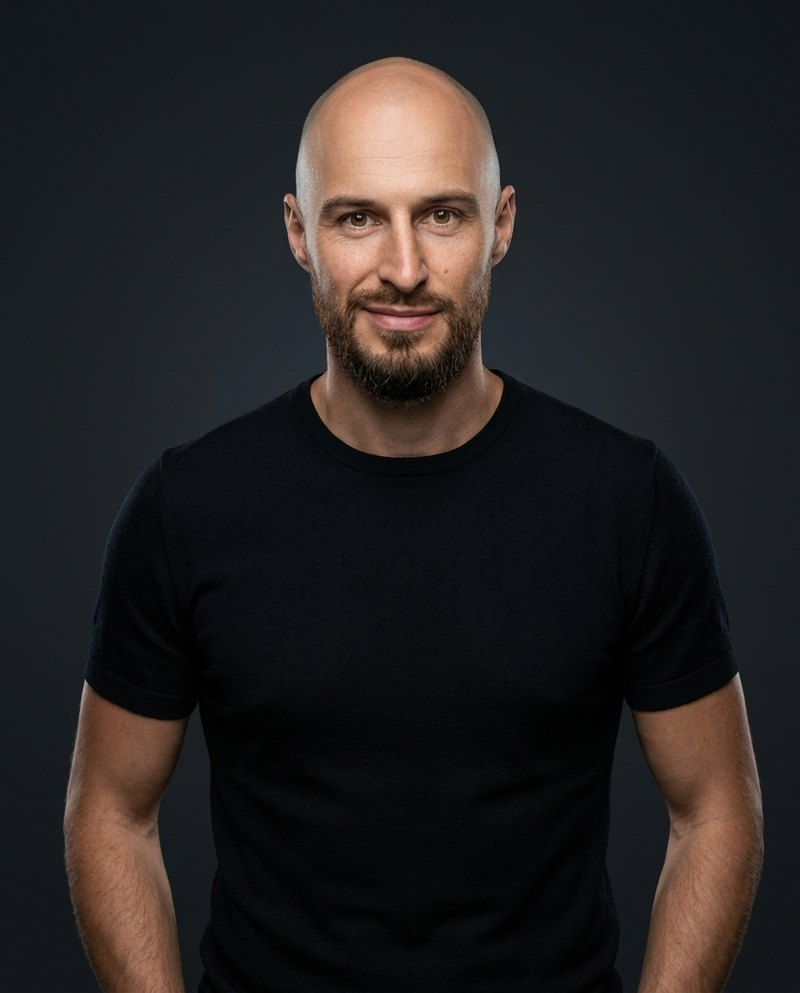
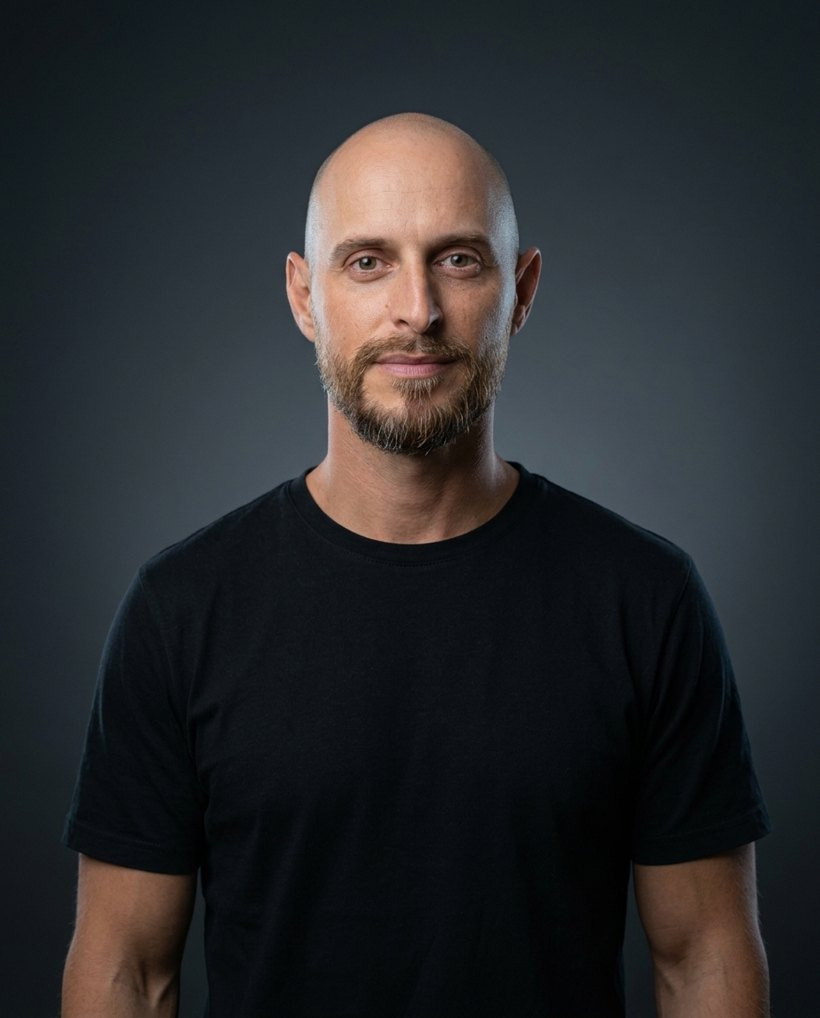
Портрет из 4К-съёмки, появление карточек по очереди

diff --git a/privacy/index.html b/privacy/index.html
@@ -10,7 +10,7 @@
 <link rel="preconnect" href="https://fonts.googleapis.com">
 <link rel="preconnect" href="https://fonts.gstatic.com" crossorigin>
 <link rel="stylesheet" href="https://fonts.googleapis.com/css2?family=Montserrat:wght@200;300;400;500;600&family=Manrope:wght@400;500;600&display=swap">
-<link rel="stylesheet" href="/assets/style.css?v=8">
+<link rel="stylesheet" href="/assets/style.css?v=9">
 <link rel="icon" href="/assets/favicon.svg" type="image/svg+xml">
 </head>
 <body class="light">
@@ -111,6 +111,25 @@ document.querySelector('.burger').addEventListener('click',function(){
   },{rootMargin:'0px 0px -6% 0px',threshold:.04});
   below.forEach(function(el){el.classList.add('rise');io.observe(el);});
   setTimeout(function(){below.forEach(function(el){el.classList.add('seen')});},2500);
+})();
+
+(function(){
+  if(!('IntersectionObserver' in window)||window.matchMedia('(prefers-reduced-motion:reduce)').matches)return;
+  var items=[].slice.call(document.querySelectorAll('.lot, .cards .card, .step, .numbers .cell'));
+  var fold=window.innerHeight*0.95;
+  var io=new IntersectionObserver(function(es){
+    es.forEach(function(e){
+      if(!e.isIntersecting)return;
+      var group=[].slice.call(e.target.parentNode.children).indexOf(e.target);
+      e.target.style.transitionDelay=Math.min(group,5)*70+'ms';
+      e.target.classList.add('seen'); io.unobserve(e.target);
+    });
+  },{rootMargin:'0px 0px -5% 0px',threshold:.05});
+  items.forEach(function(el){
+    if(el.getBoundingClientRect().top<fold){el.classList.add('reveal-item','seen');return;}
+    el.classList.add('reveal-item'); io.observe(el);
+  });
+  setTimeout(function(){items.forEach(function(el){el.classList.add('seen')});},3000);
 })();
 </script>
 </body>

diff --git a/nalogi/index.html b/nalogi/index.html
@@ -9,7 +9,7 @@
 <link rel="preconnect" href="https://fonts.googleapis.com">
 <link rel="preconnect" href="https://fonts.gstatic.com" crossorigin>
 <link rel="stylesheet" href="https://fonts.googleapis.com/css2?family=Montserrat:wght@200;300;400;500;600&family=Manrope:wght@400;500;600&display=swap">
-<link rel="stylesheet" href="/assets/style.css?v=8">
+<link rel="stylesheet" href="/assets/style.css?v=9">
 <link rel="icon" href="/assets/favicon.svg" type="image/svg+xml">
 </head>
 <body class="light">
@@ -122,6 +122,25 @@ document.querySelector('.burger').addEventListener('click',function(){
   },{rootMargin:'0px 0px -6% 0px',threshold:.04});
   below.forEach(function(el){el.classList.add('rise');io.observe(el);});
   setTimeout(function(){below.forEach(function(el){el.classList.add('seen')});},2500);
+})();
+
+(function(){
+  if(!('IntersectionObserver' in window)||window.matchMedia('(prefers-reduced-motion:reduce)').matches)return;
+  var items=[].slice.call(document.querySelectorAll('.lot, .cards .card, .step, .numbers .cell'));
+  var fold=window.innerHeight*0.95;
+  var io=new IntersectionObserver(function(es){
+    es.forEach(function(e){
+      if(!e.isIntersecting)return;
+      var group=[].slice.call(e.target.parentNode.children).indexOf(e.target);
+      e.target.style.transitionDelay=Math.min(group,5)*70+'ms';
+      e.target.classList.add('seen'); io.unobserve(e.target);
+    });
+  },{rootMargin:'0px 0px -5% 0px',threshold:.05});
+  items.forEach(function(el){
+    if(el.getBoundingClientRect().top<fold){el.classList.add('reveal-item','seen');return;}
+    el.classList.add('reveal-item'); io.observe(el);
+  });
+  setTimeout(function(){items.forEach(function(el){el.classList.add('seen')});},3000);
 })();
 </script>
 </body>

diff --git a/pereezd/index.html b/pereezd/index.html
@@ -9,7 +9,7 @@
 <link rel="preconnect" href="https://fonts.googleapis.com">
 <link rel="preconnect" href="https://fonts.gstatic.com" crossorigin>
 <link rel="stylesheet" href="https://fonts.googleapis.com/css2?family=Montserrat:wght@200;300;400;500;600&family=Manrope:wght@400;500;600&display=swap">
-<link rel="stylesheet" href="/assets/style.css?v=8">
+<link rel="stylesheet" href="/assets/style.css?v=9">
 <link rel="icon" href="/assets/favicon.svg" type="image/svg+xml">
 </head>
 <body class="light">
@@ -109,6 +109,25 @@ document.querySelector('.burger').addEventListener('click',function(){
   },{rootMargin:'0px 0px -6% 0px',threshold:.04});
   below.forEach(function(el){el.classList.add('rise');io.observe(el);});
   setTimeout(function(){below.forEach(function(el){el.classList.add('seen')});},2500);
+})();
+
+(function(){
+  if(!('IntersectionObserver' in window)||window.matchMedia('(prefers-reduced-motion:reduce)').matches)return;
+  var items=[].slice.call(document.querySelectorAll('.lot, .cards .card, .step, .numbers .cell'));
+  var fold=window.innerHeight*0.95;
+  var io=new IntersectionObserver(function(es){
+    es.forEach(function(e){
+      if(!e.isIntersecting)return;
+      var group=[].slice.call(e.target.parentNode.children).indexOf(e.target);
+      e.target.style.transitionDelay=Math.min(group,5)*70+'ms';
+      e.target.classList.add('seen'); io.unobserve(e.target);
+    });
+  },{rootMargin:'0px 0px -5% 0px',threshold:.05});
+  items.forEach(function(el){
+    if(el.getBoundingClientRect().top<fold){el.classList.add('reveal-item','seen');return;}
+    el.classList.add('reveal-item'); io.observe(el);
+  });
+  setTimeout(function(){items.forEach(function(el){el.classList.add('seen')});},3000);
 })();
 </script>
 </body>

diff --git a/rayony/index.html b/rayony/index.html
@@ -9,7 +9,7 @@
 <link rel="preconnect" href="https://fonts.googleapis.com">
 <link rel="preconnect" href="https://fonts.gstatic.com" crossorigin>
 <link rel="stylesheet" href="https://fonts.googleapis.com/css2?family=Montserrat:wght@200;300;400;500;600&family=Manrope:wght@400;500;600&display=swap">
-<link rel="stylesheet" href="/assets/style.css?v=8">
+<link rel="stylesheet" href="/assets/style.css?v=9">
 <link rel="icon" href="/assets/favicon.svg" type="image/svg+xml">
 </head>
 <body class="light">
@@ -131,6 +131,25 @@ document.querySelector('.burger').addEventListener('click',function(){
   },{rootMargin:'0px 0px -6% 0px',threshold:.04});
   below.forEach(function(el){el.classList.add('rise');io.observe(el);});
   setTimeout(function(){below.forEach(function(el){el.classList.add('seen')});},2500);
+})();
+
+(function(){
+  if(!('IntersectionObserver' in window)||window.matchMedia('(prefers-reduced-motion:reduce)').matches)return;
+  var items=[].slice.call(document.querySelectorAll('.lot, .cards .card, .step, .numbers .cell'));
+  var fold=window.innerHeight*0.95;
+  var io=new IntersectionObserver(function(es){
+    es.forEach(function(e){
+      if(!e.isIntersecting)return;
+      var group=[].slice.call(e.target.parentNode.children).indexOf(e.target);
+      e.target.style.transitionDelay=Math.min(group,5)*70+'ms';
+      e.target.classList.add('seen'); io.unobserve(e.target);
+    });
+  },{rootMargin:'0px 0px -5% 0px',threshold:.05});
+  items.forEach(function(el){
+    if(el.getBoundingClientRect().top<fold){el.classList.add('reveal-item','seen');return;}
+    el.classList.add('reveal-item'); io.observe(el);
+  });
+  setTimeout(function(){items.forEach(function(el){el.classList.add('seen')});},3000);
 })();
 </script>
 </body>

diff --git a/vnzh/index.html b/vnzh/index.html
@@ -9,7 +9,7 @@
 <link rel="preconnect" href="https://fonts.googleapis.com">
 <link rel="preconnect" href="https://fonts.gstatic.com" crossorigin>
 <link rel="stylesheet" href="https://fonts.googleapis.com/css2?family=Montserrat:wght@200;300;400;500;600&family=Manrope:wght@400;500;600&display=swap">
-<link rel="stylesheet" href="/assets/style.css?v=8">
+<link rel="stylesheet" href="/assets/style.css?v=9">
 <link rel="icon" href="/assets/favicon.svg" type="image/svg+xml">
 </head>
 <body class="light">
@@ -123,6 +123,25 @@ document.querySelector('.burger').addEventListener('click',function(){
   },{rootMargin:'0px 0px -6% 0px',threshold:.04});
   below.forEach(function(el){el.classList.add('rise');io.observe(el);});
   setTimeout(function(){below.forEach(function(el){el.classList.add('seen')});},2500);
+})();
+
+(function(){
+  if(!('IntersectionObserver' in window)||window.matchMedia('(prefers-reduced-motion:reduce)').matches)return;
+  var items=[].slice.call(document.querySelectorAll('.lot, .cards .card, .step, .numbers .cell'));
+  var fold=window.innerHeight*0.95;
+  var io=new IntersectionObserver(function(es){
+    es.forEach(function(e){
+      if(!e.isIntersecting)return;
+      var group=[].slice.call(e.target.parentNode.children).indexOf(e.target);
+      e.target.style.transitionDelay=Math.min(group,5)*70+'ms';
+      e.target.classList.add('seen'); io.unobserve(e.target);
+    });
+  },{rootMargin:'0px 0px -5% 0px',threshold:.05});
+  items.forEach(function(el){
+    if(el.getBoundingClientRect().top<fold){el.classList.add('reveal-item','seen');return;}
+    el.classList.add('reveal-item'); io.observe(el);
+  });
+  setTimeout(function(){items.forEach(function(el){el.classList.add('seen')});},3000);
 })();
 </script>
 </body>

diff --git a/index.html b/index.html
@@ -9,7 +9,7 @@
 <link rel="preconnect" href="https://fonts.googleapis.com">
 <link rel="preconnect" href="https://fonts.gstatic.com" crossorigin>
 <link rel="stylesheet" href="https://fonts.googleapis.com/css2?family=Montserrat:wght@200;300;400;500;600&family=Manrope:wght@400;500;600&display=swap">
-<link rel="stylesheet" href="/assets/style.css?v=8">
+<link rel="stylesheet" href="/assets/style.css?v=9">
 <link rel="icon" href="/assets/favicon.svg" type="image/svg+xml">
 </head>
 <body>
@@ -187,6 +187,25 @@ document.querySelector('.burger').addEventListener('click',function(){
   },{rootMargin:'0px 0px -6% 0px',threshold:.04});
   below.forEach(function(el){el.classList.add('rise');io.observe(el);});
   setTimeout(function(){below.forEach(function(el){el.classList.add('seen')});},2500);
+})();
+
+(function(){
+  if(!('IntersectionObserver' in window)||window.matchMedia('(prefers-reduced-motion:reduce)').matches)return;
+  var items=[].slice.call(document.querySelectorAll('.lot, .cards .card, .step, .numbers .cell'));
+  var fold=window.innerHeight*0.95;
+  var io=new IntersectionObserver(function(es){
+    es.forEach(function(e){
+      if(!e.isIntersecting)return;
+      var group=[].slice.call(e.target.parentNode.children).indexOf(e.target);
+      e.target.style.transitionDelay=Math.min(group,5)*70+'ms';
+      e.target.classList.add('seen'); io.unobserve(e.target);
+    });
+  },{rootMargin:'0px 0px -5% 0px',threshold:.05});
+  items.forEach(function(el){
+    if(el.getBoundingClientRect().top<fold){el.classList.add('reveal-item','seen');return;}
+    el.classList.add('reveal-item'); io.observe(el);
+  });
+  setTimeout(function(){items.forEach(function(el){el.classList.add('seen')});},3000);
 })();
 </script>
 </body>

diff --git a/podbor/index.html b/podbor/index.html
@@ -9,7 +9,7 @@
 <link rel="preconnect" href="https://fonts.googleapis.com">
 <link rel="preconnect" href="https://fonts.gstatic.com" crossorigin>
 <link rel="stylesheet" href="https://fonts.googleapis.com/css2?family=Montserrat:wght@200;300;400;500;600&family=Manrope:wght@400;500;600&display=swap">
-<link rel="stylesheet" href="/assets/style.css?v=8">
+<link rel="stylesheet" href="/assets/style.css?v=9">
 <link rel="icon" href="/assets/favicon.svg" type="image/svg+xml">
 </head>
 <body class="light">
@@ -215,6 +215,25 @@ document.getElementById('lead-form').addEventListener('submit',function(e){
   this.style.display='none';
   document.getElementById('thanks').style.display='block';
 });
+
+(function(){
+  if(!('IntersectionObserver' in window)||window.matchMedia('(prefers-reduced-motion:reduce)').matches)return;
+  var items=[].slice.call(document.querySelectorAll('.lot, .cards .card, .step, .numbers .cell'));
+  var fold=window.innerHeight*0.95;
+  var io=new IntersectionObserver(function(es){
+    es.forEach(function(e){
+      if(!e.isIntersecting)return;
+      var group=[].slice.call(e.target.parentNode.children).indexOf(e.target);
+      e.target.style.transitionDelay=Math.min(group,5)*70+'ms';
+      e.target.classList.add('seen'); io.unobserve(e.target);
+    });
+  },{rootMargin:'0px 0px -5% 0px',threshold:.05});
+  items.forEach(function(el){
+    if(el.getBoundingClientRect().top<fold){el.classList.add('reveal-item','seen');return;}
+    el.classList.add('reveal-item'); io.observe(el);
+  });
+  setTimeout(function(){items.forEach(function(el){el.classList.add('seen')});},3000);
+})();
 </script>
 </body>
 </html>

diff --git a/assets/style.css b/assets/style.css
@@ -207,3 +207,8 @@ footer a:hover::after,.nav a:hover::after{right:0}
   .btn:hover,.card:hover,.lot:hover{transform:none}
   .about figure:hover img{transform:none}
 }
+
+/* появление карточек по очереди */
+.reveal-item{opacity:0;transform:translateY(16px);transition:opacity .7s cubic-bezier(.22,.61,.36,1),transform .7s cubic-bezier(.22,.61,.36,1)}
+.reveal-item.seen{opacity:1;transform:none}
+@media (prefers-reduced-motion:reduce){.reveal-item{opacity:1;transform:none;transition:none}}
